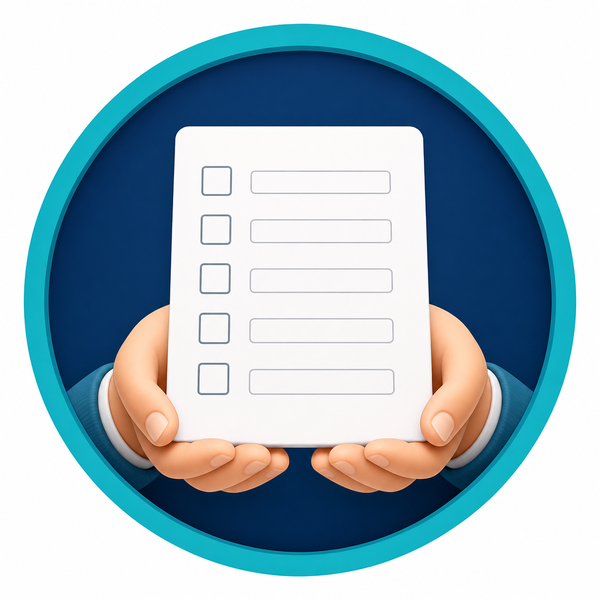
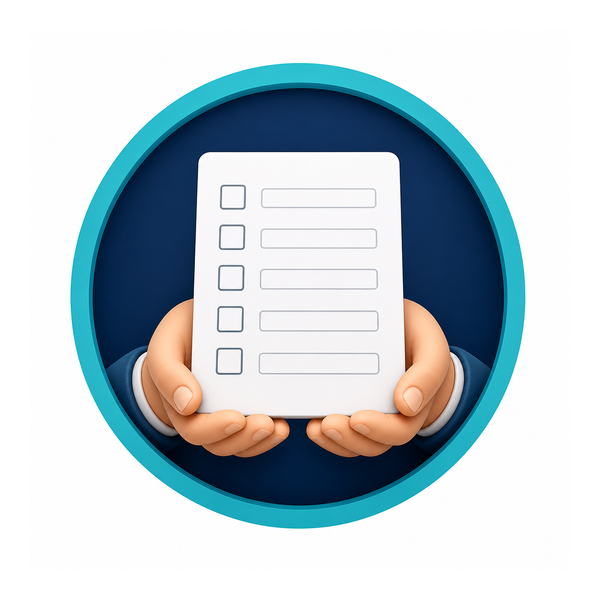
Polish representative image and runtime fallback

diff --git a/src/config.ts b/src/config.ts
@@ -1,6 +1,7 @@
-import { mkdirSync, readFileSync, writeFileSync } from "node:fs";
+import { rmSync, mkdirSync, readFileSync, writeFileSync } from "node:fs";
 import { dirname, resolve } from "node:path";
 import { randomBytes } from "node:crypto";
+import { tmpdir } from "node:os";
 
 export interface AppConfig {
   host: string;
@@ -30,19 +31,49 @@ function loadOrCreateSecret(dataDir: string): Buffer {
   try {
     return readFileSync(path);
   } catch {
-    mkdirSync(dirname(path), { recursive: true });
     const secret = randomBytes(32);
-    writeFileSync(path, secret, { mode: 0o600 });
+    try {
+      mkdirSync(dirname(path), { recursive: true });
+      writeFileSync(path, secret, { mode: 0o600 });
+    } catch {
+      console.warn("Could not persist server secret; using an in-memory secret for this process.");
+    }
     return secret;
+  }
+}
+
+function writableDataDir(): string {
+  const requested = resolve(process.env.DATA_DIR ?? ".data");
+  if (canWriteDirectory(requested)) {
+    return requested;
+  }
+
+  const fallback = resolve(tmpdir(), "labelbridge-mcp-data");
+  if (canWriteDirectory(fallback)) {
+    console.warn(`DATA_DIR is not writable; using fallback data directory: ${fallback}`);
+    return fallback;
+  }
+
+  throw new Error(`No writable data directory found. Tried ${requested} and ${fallback}.`);
+}
+
+function canWriteDirectory(path: string): boolean {
+  try {
+    mkdirSync(path, { recursive: true });
+    const probe = resolve(path, `.labelbridge-write-test-${process.pid}-${Date.now()}`);
+    writeFileSync(probe, "ok", { mode: 0o600 });
+    rmSync(probe, { force: true });
+    return true;
+  } catch {
+    return false;
   }
 }
 
 export function loadConfig(): AppConfig {
   const port = parsePort(process.env.PORT);
   const host = process.env.HOST ?? "0.0.0.0";
-  const dataDir = resolve(process.env.DATA_DIR ?? ".data");
+  const dataDir = writableDataDir();
   const databasePath = resolve(process.env.DATABASE_PATH ?? `${dataDir}/labelbridge.sqlite`);
-  mkdirSync(dataDir, { recursive: true });
 
   const rawPublicBaseUrl = process.env.PUBLIC_BASE_URL?.trim();
   const publicBaseUrl = (rawPublicBaseUrl || `http://localhost:${port}`).replace(/\/+$/, "");